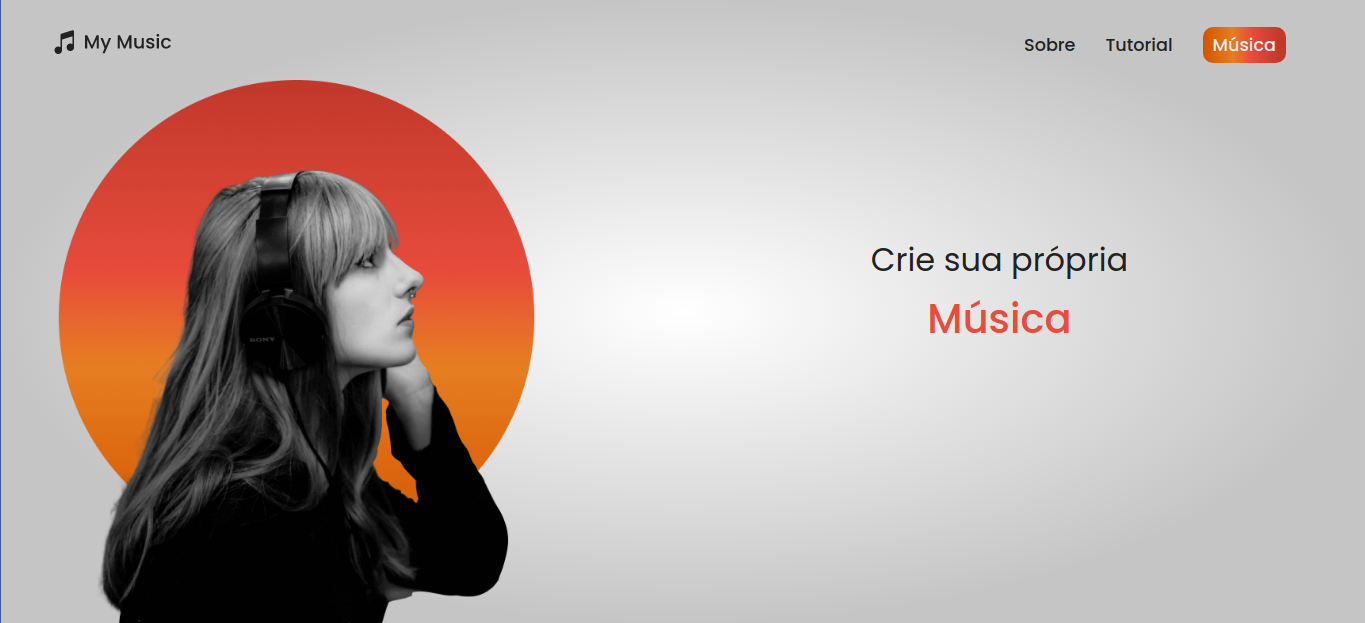
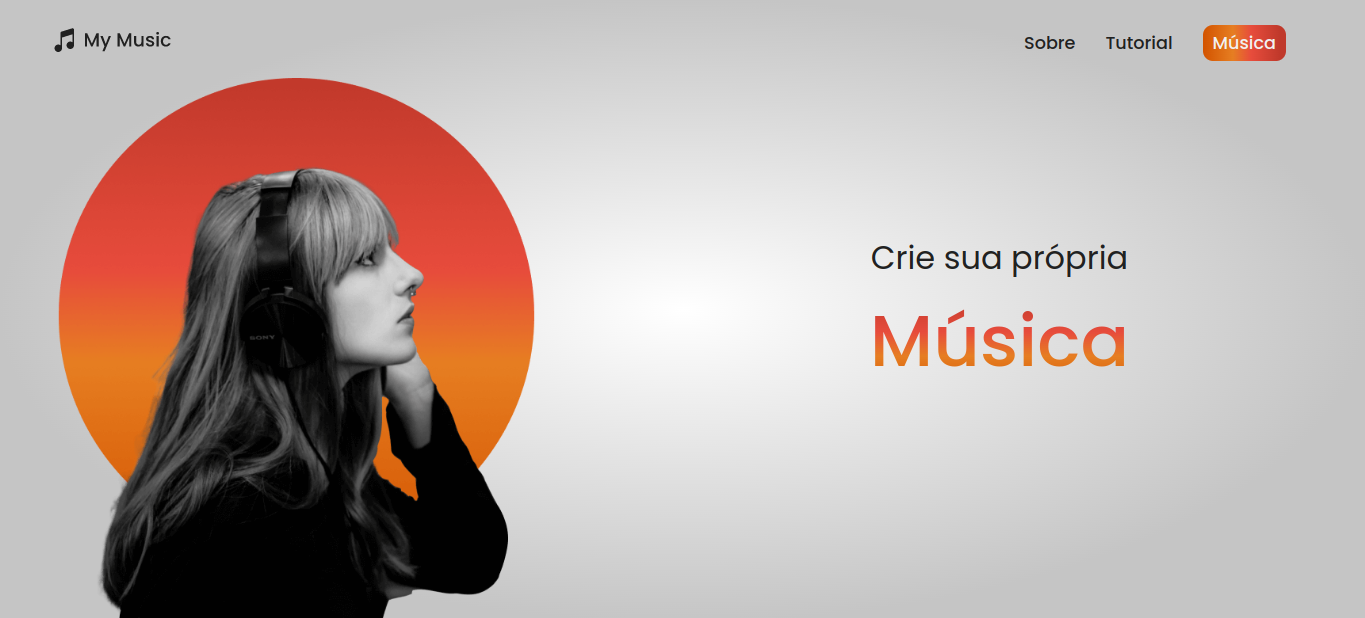
novo estilo de texto

diff --git a/style/style.css b/style/style.css
@@ -184,15 +184,23 @@ body {
   font-family: "Poppins", sans-serif;
   font-weight: 400;
   color: #212121;
-  font-size: 2rem;
+  font-size:2rem;
   margin-bottom: 5px;
 }
 
 .text-container h1 {
   font-family: "Poppins", sans-serif;
   font-weight: 500;
-  color: #e74c3c;
-  font-size: 2.5rem;
+  font-size: 72px;
+  background: -webkit-linear-gradient(
+    #c0392b 7.89%,
+    #e74c3c 41.95%,
+    #e67e22 64.02%,
+    #d35400 99.04%
+  );
+  -webkit-background-clip: text;
+  -webkit-text-fill-color: transparent;
+  font-size: 4.5rem;
 }
 
 .btn-menu {

diff --git a/index.html b/index.html
@@ -37,7 +37,7 @@
             </div>
         </div>
     </div>
-    
+
     <script src="./js/tone.js"></script>
     <script src="./js/jquery.js"></script>
     <script src="./js/app.js"></script>
